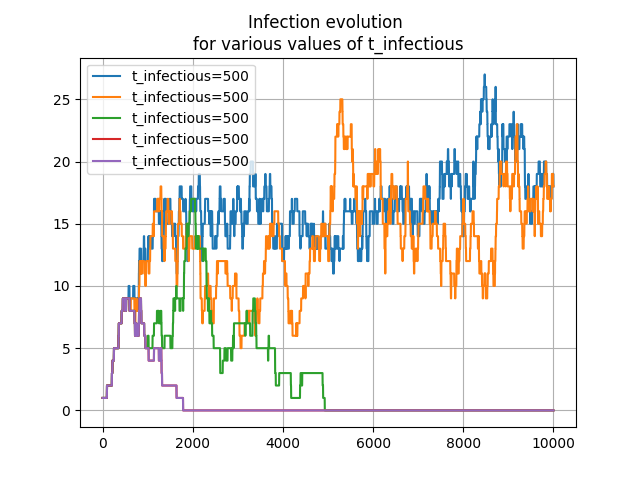
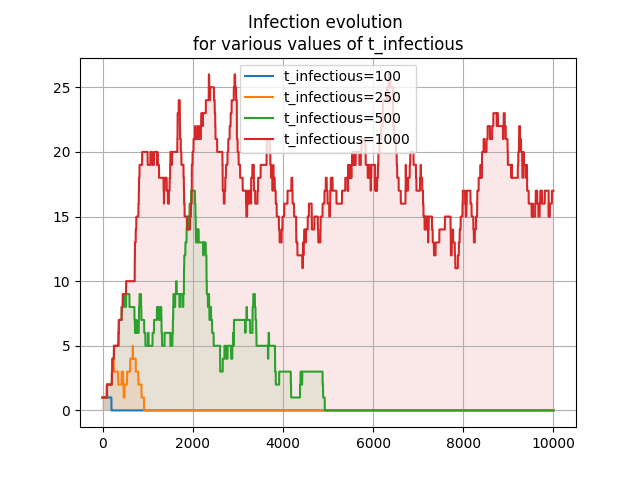
EXP4 fancy colors

Changed region(s): [[0.0625, 0.125, 0.9062, 0.875], [0.0938, 0.5625, 0.125, 0.625]]

diff --git a/graphs.py b/graphs.py
@@ -3,7 +3,7 @@ import pandas as pd
 import seaborn as sns
 import numpy as np
 
-EXP_LENGTH=5000
+EXP_LENGTH=5000*2
 
 def metp2postfix(l):
     has = lambda x:("_"+str(l.get(x,"")) if l.get(x,False) else "")
@@ -148,6 +148,12 @@ def gen_meta_meta(varying_parameter,values,exclusion=[],default={}):
         l.append(tmp_m)
     return l
 
+
+"""
+"p_p_i_barrier":75,
+        "t_infectious":500,
+        "t_removed":250
+"""
 ## EXP1
 """
 m_plot_infection_evolution("EXP1","p_p_i_barrier",gen_meta_meta("p_p_i_barrier",[25,50,75,100],["t_infectious","t_removed"]))
@@ -169,8 +175,20 @@ m_plot_infection_evolution("EXP1","p_i_infected",gen_meta_meta("p_i_infected",[1
 # Mixed
 #m_mixed_infection_evolution(["EXP2","EXP3"],[gen_meta_meta("t_infectious",[500],["t_removed"])[0],gen_meta_meta("t_infectious",[500],["t_removed"])[0]])
 
+## EXP4
+dflt = {
+    "p_p_i_barrier":75,
+    "t_infectious":500,
+    "t_removed":250
+}
+m_plot_infection_evolution("EXP4","t_infectious",gen_meta_meta("t_infectious",[100,250,500,1000],default=dflt))
+m_plot_infection_evolution("EXP4","p_p_i_barrier",gen_meta_meta("p_p_i_barrier",[25,50,75,100],default=dflt))
+m_plot_infection_evolution("EXP4","p_p_infected",gen_meta_meta("p_p_infected",[2,5,7,10,25],default=dflt))
+m_plot_infection_evolution("EXP4","t_removed",gen_meta_meta("t_removed",[50,100,250,500,1000],default=dflt))
+
+
 # EXP5
 #m_plot_infection_evolution("EXP5","t_infectious",gen_meta_meta("t_infectious",[100,250,500,1000],["t_removed"]))
 #m_plot_infection_evolution("EXP5","p_p_infected",gen_meta_meta("p_p_infected",[2,5,7,10,25],["t_removed"]))
-m_plot_infection_evolution("EXP5","p_p_i_barrier",gen_meta_meta("p_p_i_barrier",[10,25,50,75],["t_removed"]))
+#m_plot_infection_evolution("EXP5","p_p_i_barrier",gen_meta_meta("p_p_i_barrier",[10,25,50,75],["t_removed"]))
 #m_plot_infection_evolution("EXP5","p_i_infected",gen_meta_meta("p_i_infected",[5,10,20,30,50],["t_removed"]))
